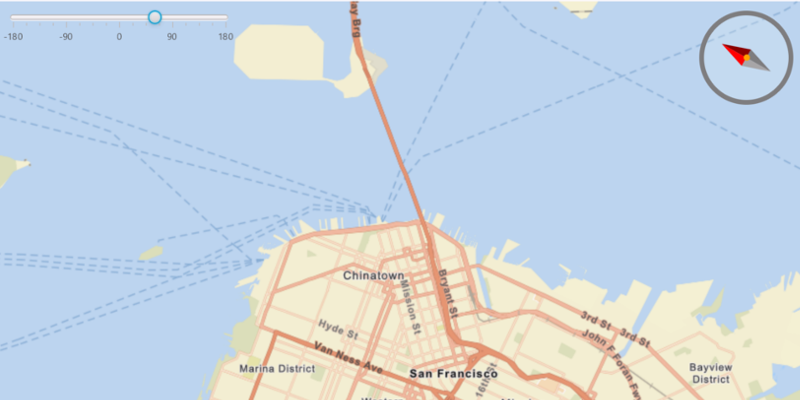
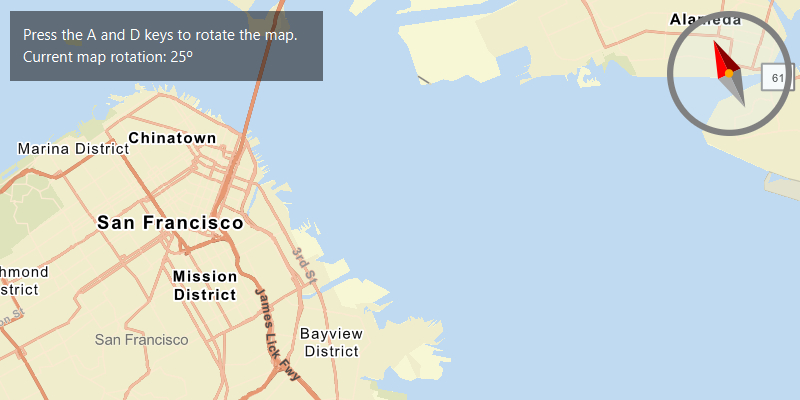
Update readme

diff --git a/map_view/map-rotation/src/main/java/com/esri/samples/map_rotation/MapRotationSample.java b/map_view/map-rotation/src/main/java/com/esri/samples/map_rotation/MapRotationSample.java
@@ -44,7 +44,6 @@ import com.esri.arcgisruntime.toolkit.Compass;
 
 public class MapRotationSample extends Application {
 
-  private ArcGISMap map; // keep loadable in scope to avoid garbage collection
   private MapView mapView;
 
   @Override
@@ -67,7 +66,7 @@ public class MapRotationSample extends Application {
       ArcGISRuntimeEnvironment.setApiKey(yourAPIKey);
 
       // create a map with the streets basemap style
-      map = new ArcGISMap(BasemapStyle.ARCGIS_STREETS);
+      ArcGISMap map = new ArcGISMap(BasemapStyle.ARCGIS_STREETS);
 
       // create a map view and set the map to it
       mapView = new MapView();
@@ -83,9 +82,8 @@ public class MapRotationSample extends Application {
       rotationLabel.setTextFill(Color.WHITE);
 
       // update the rotation label when the compass rotates
-      rotationLabel.textProperty().bind(Bindings.createStringBinding(()-> {
-        return "Current map rotation: " + Math.round(compass.headingProperty().get()) + "º";
-      }, compass.headingProperty()));
+      rotationLabel.textProperty().bind(Bindings.createStringBinding(()->
+        "Current map rotation: " + Math.round(compass.headingProperty().get()) + "º", compass.headingProperty()));
 
       // create a starting viewpoint for the map view
       SpatialReference spatialReference = SpatialReferences.getWebMercator();

diff --git a/map_view/map-rotation/README.md b/map_view/map-rotation/README.md
@@ -10,12 +10,12 @@ A user may wish to view the map in an orientation other than north-facing.
 
 ## How to use the sample
 
-Use the slider to rotate the map. If the map is not pointed north, the compass will display the current heading. Click the compass to set the map's heading to north.
+Press the A and D keys to rotate the map. If the map is not pointed north, the compass will display the current heading. Click the compass to set the map's heading to north.
 
 ## How it works
 
 1. Create a `ArcGISMap` and set it to a `MapView`.
-2. Use `setViewpointRotationAsync(...)` to set the rotation angle of the map.
+2. Create a `Compass` and pass the `MapView` to set the rotation angle of the map to the compass heading value.
 
 ## Relevant API
 
